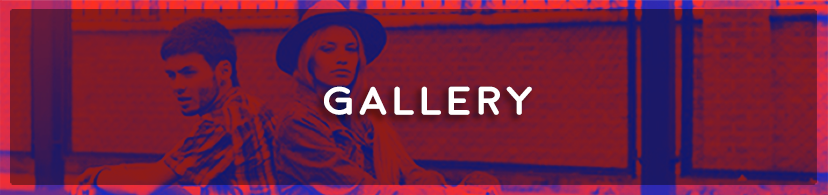
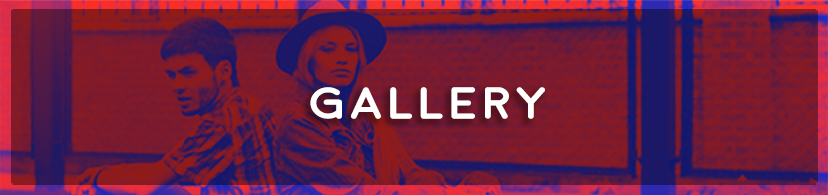
finish developing for web

Changed region(s): [[0.3623, 0.4308, 0.6643, 0.6462]]

diff --git a/app/assets/stylesheets/medium_laptop.css.scss b/app/assets/stylesheets/medium_laptop.css.scss
@@ -21,11 +21,6 @@
     float: none;
   }
 
-  .join_form {
-    margin-top: 5%;
-  }
-
-
   a:hover{
     cursor: hand;
   }
@@ -33,5 +28,27 @@
   .experience{
     margin-top: 4%;
   }
+
+  .gallery_text{
+    width:40%;
+  }
+
+  .form-control {
+    width: inherit;
+    padding: 3%;
+  }
+
+  .form_label{
+    margin-top: 0;
+  }
+
+  .gallery_text_desktop{
+    margin-top: -3%;
+  }
+
+  .landing_3 {
+    margin-top: 3%;
+  }
+
 
  }

diff --git a/app/assets/stylesheets/small_devices.css.scss b/app/assets/stylesheets/small_devices.css.scss
@@ -13,5 +13,15 @@
     margin:0 auto;
     margin-top: 41%;
   }
+  .contact_text_02 {
+    margin:0 auto;
+    margin-top: 10%;
+  }
+  .form-control {
+    width: 88%;
+    padding: 4.2%;
+    margin-top: 8%;
+  }
+
 
 }

diff --git a/app/assets/stylesheets/survey.css.scss b/app/assets/stylesheets/survey.css.scss
@@ -1,9 +1,3 @@
-.form-control {
-  width: 88%;
-  padding: 4.2%;
-  margin-top: 8%;
-}
-
 .survey_input {
   background-color: black;
   border-color: white;

diff --git a/app/assets/stylesheets/index.css.scss b/app/assets/stylesheets/index.css.scss
@@ -18,7 +18,6 @@
   margin-top: 41%;
 }
 
-
 .form_label{
   color: white;
   font-size: 2.4em;

diff --git a/app/assets/stylesheets/admin.css.scss b/app/assets/stylesheets/admin.css.scss
@@ -1,0 +1,5 @@
+.admintable {
+  width: 100%;
+  font-size: 25px;
+  color: white;
+}
